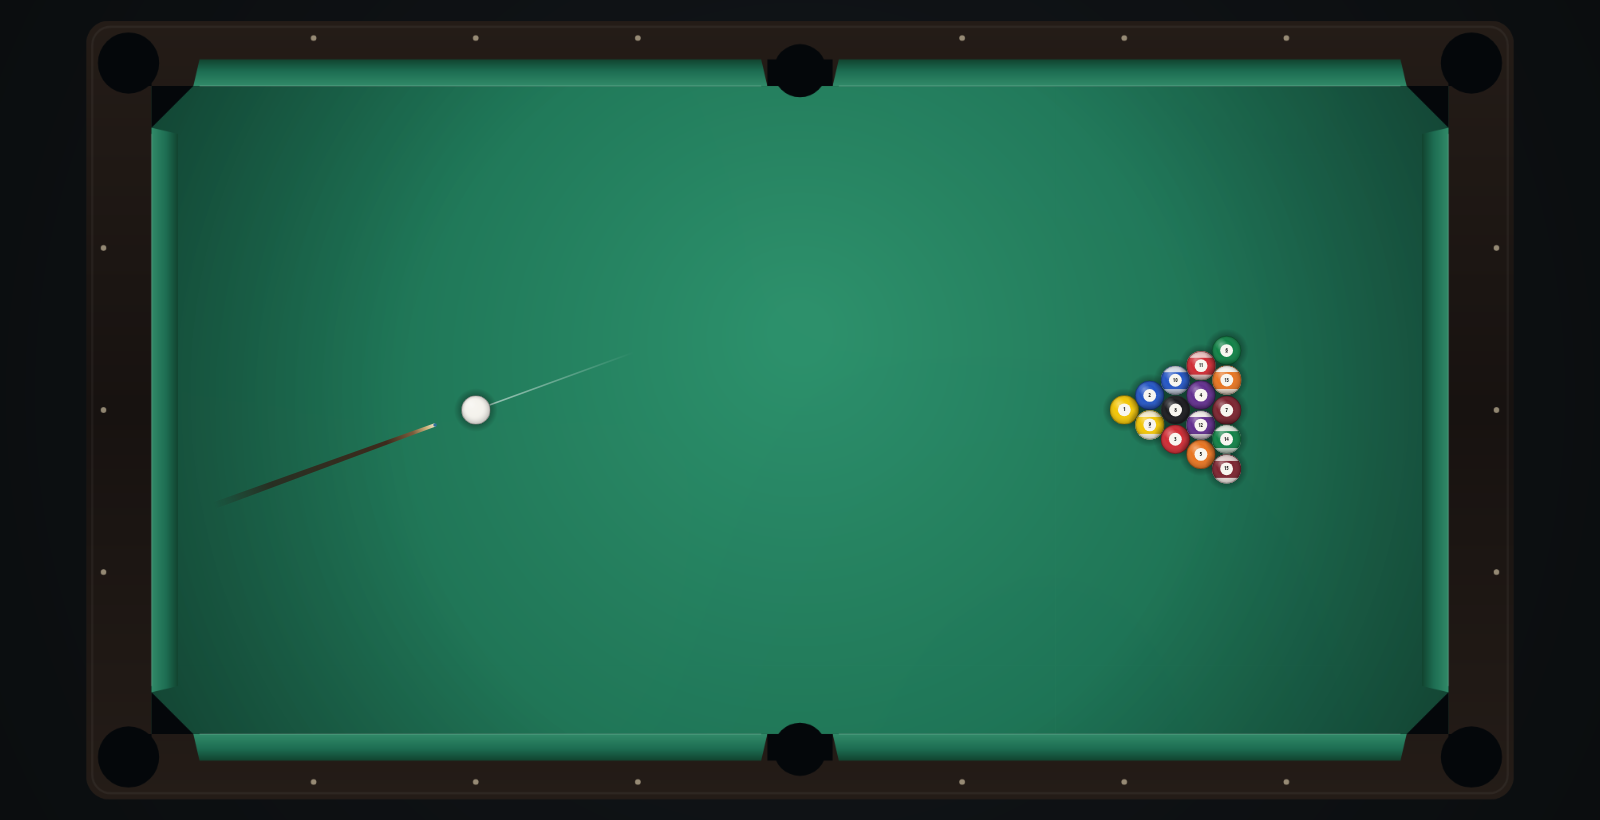
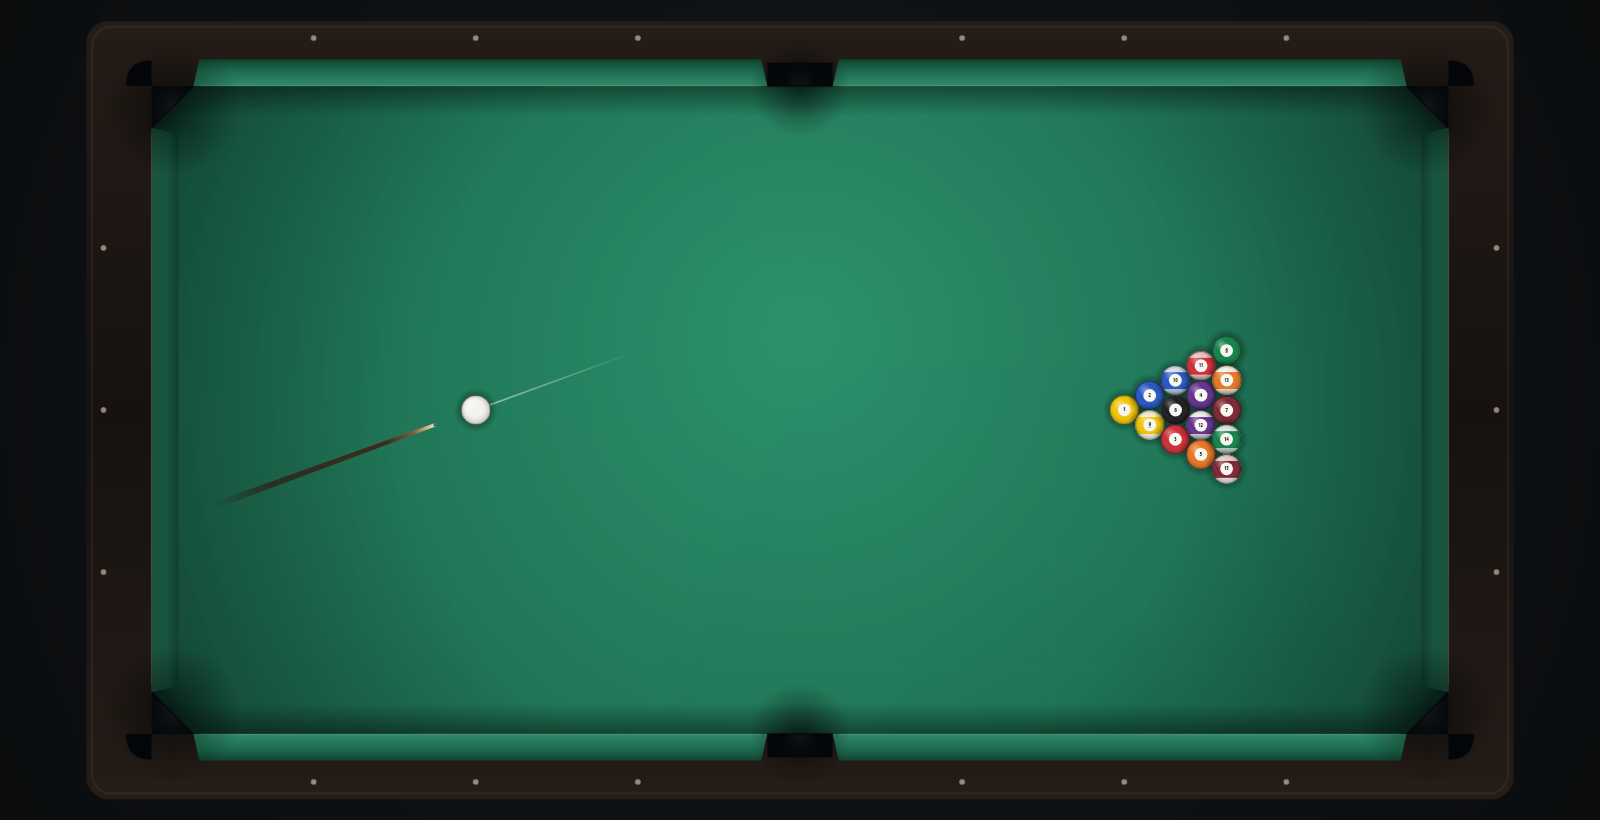
Occlusion and rail shadows; pocket geometry still wrong
Adds the shadow the rails cast onto the cloth and ambient occlusion around each pocket mouth, which is what finally makes the cloth read as recessed. The pocket silhouette itself is still not right - the hole is drawn after the cushions so the cushion ends look chopped rather than cut, and the mouth chord does not meet the jaws correctly. Committed as a checkpoint, not as a fix.

Changed region(s): [[0.0625, 0.0305, 0.9375, 0.9756]]

diff --git a/src/render/scene.ts b/src/render/scene.ts
@@ -170,37 +170,118 @@ function buildTable(): HTMLCanvasElement {
     g.restore();
   }
 
+  // --- shadow the rails cast onto the cloth ---
+  // Without this the cushions look painted on: nothing tells the eye the rail
+  // is above the cloth.
+  const sh = 0.06;
+  const sides: Array<[number, number, number, number, number, number]> = [
+    [-HALF_L, -HALF_W, TABLE_L, sh, 0, 1],
+    [-HALF_L, HALF_W - sh, TABLE_L, sh, 0, -1],
+    [-HALF_L, -HALF_W, sh, TABLE_W, 1, 0],
+    [HALF_L - sh, -HALF_W, sh, TABLE_W, -1, 0],
+  ];
+  for (const [rx, ry, rw, rh, gx, gy] of sides) {
+    const grad0 = g.createLinearGradient(
+      gx === 0 ? 0 : rx + (gx > 0 ? 0 : rw),
+      gy === 0 ? 0 : ry + (gy > 0 ? 0 : rh),
+      gx === 0 ? 0 : rx + (gx > 0 ? rw : 0),
+      gy === 0 ? 0 : ry + (gy > 0 ? rh : 0),
+    );
+    grad0.addColorStop(0, 'rgba(0,0,0,0.42)');
+    grad0.addColorStop(1, 'rgba(0,0,0,0)');
+    g.fillStyle = grad0;
+    g.fillRect(rx, ry, rw, rh);
+  }
+
   // --- pockets ---
-  // The mouth is the gap between the cushion ends, so the hole is drawn
-  // starting from that same mouth. What you see is what the ball falls into.
+  // A pocket is a straight mouth (the gap the two cushion ends leave) with a
+  // rounded throat bulging away from the table. Drawn as one shape so the hole
+  // and the mouth are the same object.
   POCKETS.forEach((p, i) => {
     const corner = i < 4;
-    const r = corner ? 0.060 : 0.052;
     const sx = Math.sign(p.x);
     const sy = Math.sign(p.y);
 
-    g.fillStyle = '#04070a';
-    g.beginPath();
+    let jawA: { x: number; y: number };
+    let jawB: { x: number; y: number };
+    let ox: number;
+    let oy: number;
+    let bulge: number;
+
     if (corner) {
-      // wedge from the two cushion ends out past the corner, rounded off
-      g.moveTo(p.x - sx * CORNER_GAP, p.y);
-      g.lineTo(p.x + sx * 0.052, p.y);
-      g.lineTo(p.x + sx * 0.052, p.y + sy * 0.052);
-      g.lineTo(p.x, p.y + sy * 0.052);
-      g.lineTo(p.x, p.y - sy * CORNER_GAP);
-      g.closePath();
+      jawA = { x: p.x - sx * CORNER_GAP, y: p.y };
+      jawB = { x: p.x, y: p.y - sy * CORNER_GAP };
+      const k = Math.SQRT1_2;
+      ox = sx * k;
+      oy = sy * k;
+      bulge = 0.085;
     } else {
-      g.moveTo(p.x - SIDE_GAP, p.y);
-      g.lineTo(p.x - SIDE_GAP, p.y + sy * 0.052);
-      g.lineTo(p.x + SIDE_GAP, p.y + sy * 0.052);
-      g.lineTo(p.x + SIDE_GAP, p.y);
-      g.closePath();
+      jawA = { x: p.x - SIDE_GAP, y: p.y };
+      jawB = { x: p.x + SIDE_GAP, y: p.y };
+      ox = 0;
+      oy = sy;
+      bulge = 0.062;
     }
+
+    const mx = (jawA.x + jawB.x) / 2;
+    const my = (jawA.y + jawB.y) / 2;
+
+    // ambient occlusion on the cloth around the mouth - this is what makes it
+    // read as a hole rather than a shape drawn on top
+    const ao = g.createRadialGradient(mx, my, 0.01, mx, my, bulge * 1.6);
+    ao.addColorStop(0, 'rgba(0,0,0,0.5)');
+    ao.addColorStop(0.55, 'rgba(0,0,0,0.22)');
+    ao.addColorStop(1, 'rgba(0,0,0,0)');
+    g.fillStyle = ao;
+    g.beginPath();
+    g.arc(mx, my, bulge * 1.6, 0, TAU);
     g.fill();
 
+    // The hole starts at the mouth and takes the whole corner with it,
+    // including the cloth triangle the cushions leave behind.
     g.beginPath();
-    g.arc(corner ? p.x + sx * 0.045 : p.x, corner ? p.y + sy * 0.045 : p.y + sy * 0.03, r, 0, TAU);
+    if (corner) {
+      const ex = p.x + sx * 0.050;
+      const ey = p.y + sy * 0.050;
+      g.moveTo(jawA.x, jawA.y);
+      g.lineTo(ex, p.y);
+      g.quadraticCurveTo(ex, ey, p.x, ey);
+      g.lineTo(jawB.x, jawB.y);
+    } else {
+      const ey = p.y + sy * 0.046;
+      g.moveTo(jawA.x, jawA.y);
+      g.lineTo(jawA.x, ey);
+      g.quadraticCurveTo(jawA.x, ey, jawA.x + 0.02, ey);
+      g.lineTo(jawB.x - 0.02, ey);
+      g.quadraticCurveTo(jawB.x, ey, jawB.x, ey);
+      g.lineTo(jawB.x, jawB.y);
+    }
+    g.closePath();
+    g.fillStyle = '#04070a';
     g.fill();
+
+    // depth: darker at the throat, lighter at the mouth
+    const depth = g.createRadialGradient(
+      mx - ox * bulge * 0.2,
+      my - oy * bulge * 0.2,
+      bulge * 0.1,
+      mx + ox * bulge * 0.6,
+      my + oy * bulge * 0.6,
+      bulge * 1.5,
+    );
+    depth.addColorStop(0, 'rgba(255,255,255,0.07)');
+    depth.addColorStop(0.45, 'rgba(0,0,0,0)');
+    depth.addColorStop(1, 'rgba(0,0,0,0.8)');
+    g.fillStyle = depth;
+    g.fill();
+
+    // a thin dark lip along the mouth edge
+    g.strokeStyle = 'rgba(0,0,0,0.55)';
+    g.lineWidth = 0.004;
+    g.beginPath();
+    g.moveTo(jawA.x, jawA.y);
+    g.lineTo(jawB.x, jawB.y);
+    g.stroke();
   });
 
   // --- sights ---
